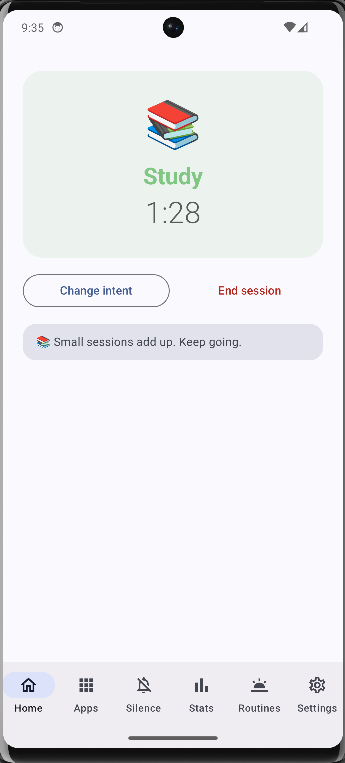
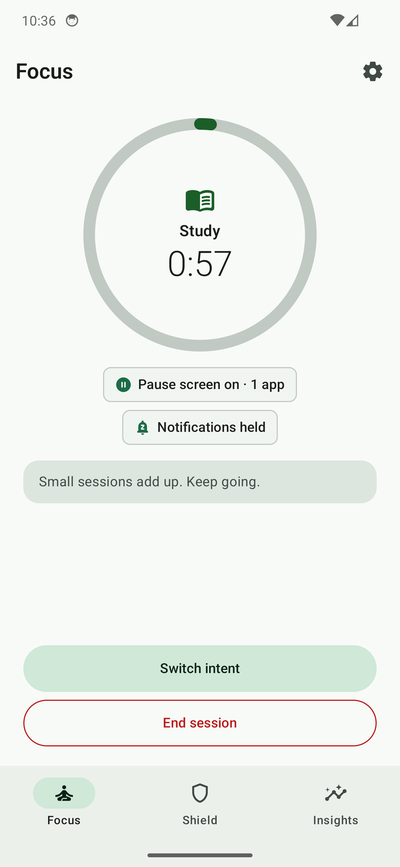
docs: refresh screenshots for the Focus/Shield/Insights UI
Replace the Home, Routines and Settings images, add Shield and Insights,
and remove the Apps, Silence and Stats images for screens that no longer
exist. README tables updated to match.

diff --git a/README.md b/README.md
@@ -10,13 +10,13 @@ View your app in AI Studio: https://ai.studio/apps/474426d8-e4c0-41e7-bb2e-4ae24
 
 ## Screenshots
 
-| Home | Apps | Silence |
+| Focus | Shield | Insights |
 |---|---|---|
-| ![Home screen](screenshots/home.png) | ![Apps screen](screenshots/apps.png) | ![Silence screen](screenshots/silence.png) |
+| ![Focus screen](screenshots/home.png) | ![Shield screen](screenshots/shield.png) | ![Insights screen](screenshots/insights.png) |
 
-| Stats | Routines | Settings |
-|---|---|---|
-| ![Stats screen](screenshots/stats.png) | ![Routines screen](screenshots/routines.png) | ![Settings screen](screenshots/settings.png) |
+| Daily routines | Settings |
+|---|---|
+| ![Routines screen](screenshots/routines.png) | ![Settings screen](screenshots/settings.png) |
 
 ## Run Locally
 
